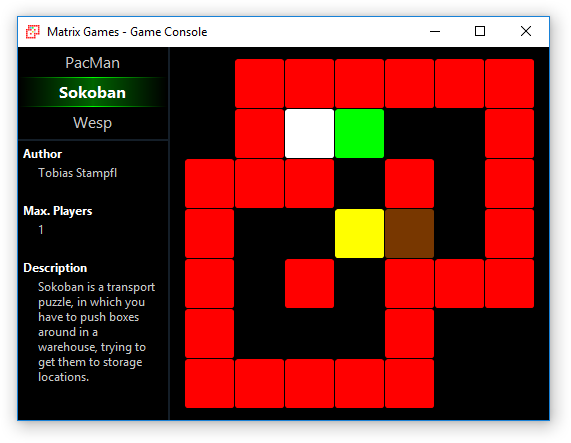
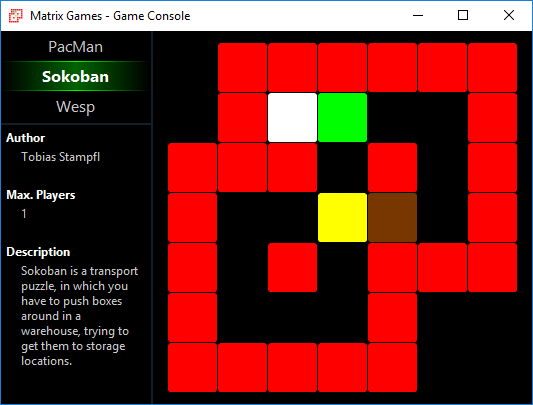
removed shadows of all images

diff --git a/templates/de/developers.inc.php b/templates/de/developers.inc.php
@@ -84,11 +84,12 @@
           </div>
           <div id="collapse1" class="panel-collapse collapse">
             <div class="panel-body">
-              Create a new interpreter <code>Window -&gt; Preferences -&gt; PyDev -&gt; Interpreters -&gt; Python Interpreters</code> named <code>Python - Matrix Games</code> that points to the binary <code>C:\PythonVirtualEnv\<wbr>MatrixGames\Scripts\python.exe</code>
-              <img class="img-responsive" src="images/eclipseInstructions/step1.png"/><br>
-              <img class="img-responsive" src="images/eclipseInstructions/step2.png"/><br>
-
+              Create a new interpreter <code>Window -&gt; Preferences -&gt; PyDev -&gt; Interpreters -&gt; Python Interpreters</code> named <code>Python - Matrix Games</code> that points to the binary <code>C:\PythonVirtualEnv\<wbr>MatrixGames\Scripts\python.exe</code><br>
+              <br>
+              <img class="img-responsive"  src="images/eclipseInstructions/step1.png"/><br>
+              <img class="img-responsive"  src="images/eclipseInstructions/step2.png"/><br>
               Assign the interpreter <code>Python - Matrix Games</code> to the project by right-clicking on the project <code>Properties -&gt; PyDev -&gt; Interpreter/Grammar -&gt; Interpreter</code>.<br>
+              <br>
               <img class="img-responsive" src="images/eclipseInstructions/step3.png"/>
             </div>
           </div>
